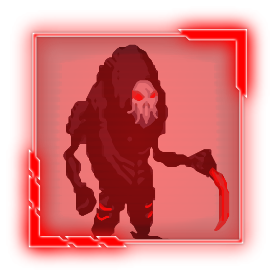
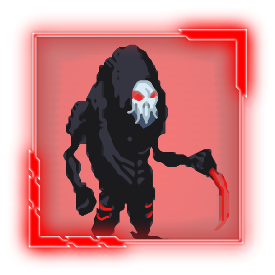
Enhance HUD.

Changed region(s): [[0.2327, 0.1455, 0.8436, 0.8436]]

diff --git a/src/de/gurkenlabs/starreaperz/ui/components/HUD.java b/src/de/gurkenlabs/starreaperz/ui/components/HUD.java
@@ -6,11 +6,15 @@ import de.gurkenlabs.litiengine.Valign;
 import de.gurkenlabs.litiengine.graphics.TextRenderer;
 import de.gurkenlabs.litiengine.gui.GuiComponent;
 import de.gurkenlabs.starreaperz.GameManager;
+import de.gurkenlabs.starreaperz.GameState;
+import de.gurkenlabs.starreaperz.Program;
 import java.awt.Graphics2D;
 
 public class HUD extends GuiComponent {
   private Minimap minimap;
   private ShootIndicator shootIndicator;
+  private Portrait portrait;
+  private ProgressMeter progressMeter;
 
 
   public HUD() {
@@ -19,15 +23,26 @@ public class HUD extends GuiComponent {
 
   @Override public void render(Graphics2D g) {
     super.render(g);
+    if (!showHud()) {
+      return;
+    }
     TextRenderer.render(g, "Score: " + GameManager.instance().getOverallScore(), Align.CENTER, Valign.DOWN, 0, 0);
   }
 
   @Override protected void initializeComponents() {
     super.initializeComponents();
-    this.minimap = new Minimap(600, 200, Game.window().getResolution().getWidth() * 1 / 10d, Game.window().getResolution().getHeight() * 1 / 10d);
-    this.shootIndicator = new ShootIndicator(10, 10, 250, 250);
+    double screenWidth = Game.window().getResolution().getWidth();
+    double screenHeight = Game.window().getResolution().getHeight();
+    this.portrait = new Portrait(screenWidth * 1 / 32d, screenHeight * 1 / 32d, screenWidth * 4 / 32d, screenWidth * 4 / 32d);
+    this.shootIndicator = new ShootIndicator(portrait.getX() + portrait.getWidth() - portrait.getWidth() / 3d,
+        portrait.getY() + portrait.getHeight() - portrait.getWidth() / 3d, screenWidth * 2 / 32d, screenWidth * 2 / 32d);
+    this.minimap = new Minimap(screenWidth * 27 / 32d, screenHeight * 1 / 32d, screenWidth * 4 / 32d, screenHeight * 4 / 32d);
+    this.progressMeter =
+        new ProgressMeter(screenWidth / 2d - screenWidth * 2 / 10d, screenHeight * 1 / 32d, screenWidth * 2 / 5d, screenHeight * 1 / 32d);
     getComponents().add(minimap);
     getComponents().add(shootIndicator);
+    getComponents().add(portrait);
+    getComponents().add(progressMeter);
   }
 
   public Minimap getMinimap() {
@@ -36,5 +51,11 @@ public class HUD extends GuiComponent {
 
   public ShootIndicator getShootIndicator() {
     return shootIndicator;
+  }
+
+  public static boolean showHud() {
+    return GameManager.instance().getState() == GameState.INGAME
+        && Game.world().environment() != null
+        && GameManager.instance().getSpaceship() != null;
   }
 }

diff --git a/src/de/gurkenlabs/starreaperz/ui/components/Portrait.java b/src/de/gurkenlabs/starreaperz/ui/components/Portrait.java
@@ -1,0 +1,44 @@
+package de.gurkenlabs.starreaperz.ui.components;
+
+import de.gurkenlabs.litiengine.graphics.ImageRenderer;
+import de.gurkenlabs.litiengine.gui.ImageComponent;
+import de.gurkenlabs.litiengine.gui.ImageScaleMode;
+import de.gurkenlabs.litiengine.util.Imaging;
+import de.gurkenlabs.starreaperz.GameManager;
+import de.gurkenlabs.starreaperz.constants.ReaperImageZ;
+import java.awt.Graphics2D;
+import java.awt.image.BufferedImage;
+
+public class Portrait extends ImageComponent {
+  private final BufferedImage life1 = Imaging.scale(ReaperImageZ.UI_LIFE_1, (int) getWidth(), (int) getHeight());
+  private final BufferedImage life2 = Imaging.scale(ReaperImageZ.UI_LIFE_2, (int) getWidth(), (int) getHeight());
+  private final BufferedImage life3 = Imaging.scale(ReaperImageZ.UI_LIFE_3, (int) getWidth(), (int) getHeight());
+  private final BufferedImage life4 = Imaging.scale(ReaperImageZ.UI_LIFE_4, (int) getWidth(), (int) getHeight());
+  private final BufferedImage life5 = Imaging.scale(ReaperImageZ.UI_LIFE_5, (int) getWidth(), (int) getHeight());
+
+  public Portrait(double x, double y, double width, double height) {
+    super(x, y, width, height, ReaperImageZ.UI_PORTRAIT);
+    setImageScaleMode(ImageScaleMode.FIT);
+  }
+
+  @Override protected void initializeComponents() {
+    super.initializeComponents();
+  }
+
+  @Override public void render(Graphics2D g) {
+    super.render(g);
+    if (!HUD.showHud()) {
+      return;
+    }
+    BufferedImage life = switch (GameManager.instance().getSpaceship().getHitPoints().get()) {
+      case 1 -> life1;
+      case 2 -> life2;
+      case 3 -> life3;
+      case 4 -> life4;
+      case 5 -> life5;
+      default -> null;
+    };
+    ImageRenderer.render(g, life, getX(), getY());
+
+  }
+}

diff --git a/src/de/gurkenlabs/starreaperz/ui/components/ProgressMeter.java b/src/de/gurkenlabs/starreaperz/ui/components/ProgressMeter.java
@@ -1,0 +1,40 @@
+package de.gurkenlabs.starreaperz.ui.components;
+
+import de.gurkenlabs.litiengine.Game;
+import de.gurkenlabs.litiengine.gui.HorizontalSlider;
+import de.gurkenlabs.litiengine.gui.ImageComponent;
+import de.gurkenlabs.litiengine.gui.ImageScaleMode;
+import de.gurkenlabs.litiengine.util.MathUtilities;
+import de.gurkenlabs.starreaperz.GameManager;
+import de.gurkenlabs.starreaperz.GameState;
+import de.gurkenlabs.starreaperz.constants.ReaperImageZ;
+import java.awt.Graphics2D;
+
+public class ProgressMeter extends ImageComponent {
+  ImageComponent slider;
+
+  public ProgressMeter(double x, double y, double width, double height) {
+    super(x, y, width, height);
+    setImage(ReaperImageZ.UI_SLIDER_1);
+  }
+
+  @Override protected void initializeComponents() {
+    super.initializeComponents();
+    double sliderSize = 0.08 * getWidth();
+    this.slider = new ImageComponent(getX(), getY() + getHeight() / 2d - sliderSize / 2d, sliderSize, sliderSize);
+    slider.setImage(ReaperImageZ.UI_SLIDER_2);
+    slider.setImageScaleMode(ImageScaleMode.FIT);
+    getComponents().add(slider);
+  }
+
+  @Override public void render(Graphics2D g) {
+    super.render(g);
+    if (!HUD.showHud()) {
+      return;
+    }
+    double progress =
+        (Game.world().environment().getMap().getSizeInPixels().getHeight() - GameManager.instance().getSpaceship().getY()) / Game.world()
+            .environment().getMap().getSizeInPixels().getHeight();
+    slider.setX(getX() + progress * (getWidth() * 0.8));
+  }
+}

diff --git a/src/de/gurkenlabs/starreaperz/constants/ReaperImageZ.java b/src/de/gurkenlabs/starreaperz/constants/ReaperImageZ.java
@@ -12,9 +12,18 @@ public class ReaperImageZ {
   public static final BufferedImage UI_CIRCLE_2 = Resources.images().get("circle2.png");
   public static final BufferedImage UI_BORDER_1 = Resources.images().get("border1.png");
   public static final BufferedImage UI_BG_1 = Resources.images().get("bg1.png");
+  public static final BufferedImage UI_SLIDER_1 = Resources.images().get("slider1.png");
+  public static final BufferedImage UI_SLIDER_2 = Resources.images().get("slider2.png");
+  public static final BufferedImage UI_PORTRAIT = Resources.images().get("portrait.png");
   public static final BufferedImage UI_AIM_1 = Resources.images().get("aim1.png");
   public static final BufferedImage UI_AIM_2 = Resources.images().get("aim2.png");
   public static final BufferedImage UI_AIM_3 = Resources.images().get("aim3.png");
   public static final BufferedImage UI_AIM_4 = Resources.images().get("aim4.png");
   public static final BufferedImage UI_AIM_5 = Resources.images().get("aim5.png");
+  public static final BufferedImage UI_LIFE_1 = Resources.images().get("life-1.png");
+  public static final BufferedImage UI_LIFE_2 = Resources.images().get("life-2.png");
+  public static final BufferedImage UI_LIFE_3 = Resources.images().get("life-3.png");
+  public static final BufferedImage UI_LIFE_4 = Resources.images().get("life-4.png");
+  public static final BufferedImage UI_LIFE_5 = Resources.images().get("life-5.png");
+
 }

diff --git a/src/de/gurkenlabs/starreaperz/ui/components/ShootIndicator.java b/src/de/gurkenlabs/starreaperz/ui/components/ShootIndicator.java
@@ -30,7 +30,7 @@ public class ShootIndicator extends ImageComponent {
 
   @Override public void render(Graphics2D g) {
     super.render(g);
-    if (aim2 == null || aim3 == null || aim4 == null || aim5 == null) {
+    if (!HUD.showHud() || aim2 == null || aim3 == null || aim4 == null || aim5 == null) {
       return;
     }
     ImageRenderer.renderRotated(g, aim2, getX() + getWidth() / 2d - aim2.getWidth() / 2d,

diff --git a/src/de/gurkenlabs/starreaperz/ui/components/Minimap.java b/src/de/gurkenlabs/starreaperz/ui/components/Minimap.java
@@ -37,6 +37,9 @@ public class Minimap extends ImageComponent {
   }
 
   @Override public void render(Graphics2D g) {
+    if (!HUD.showHud()) {
+      return;
+    }
     ImageRenderer.render(g, bg, getX() - getWidth() * 1 / 4d, getY() - getHeight() * 1 / 4d);
     super.render(g);
     ImageRenderer.render(g, computeMinimapImage(), getX(), getY());
